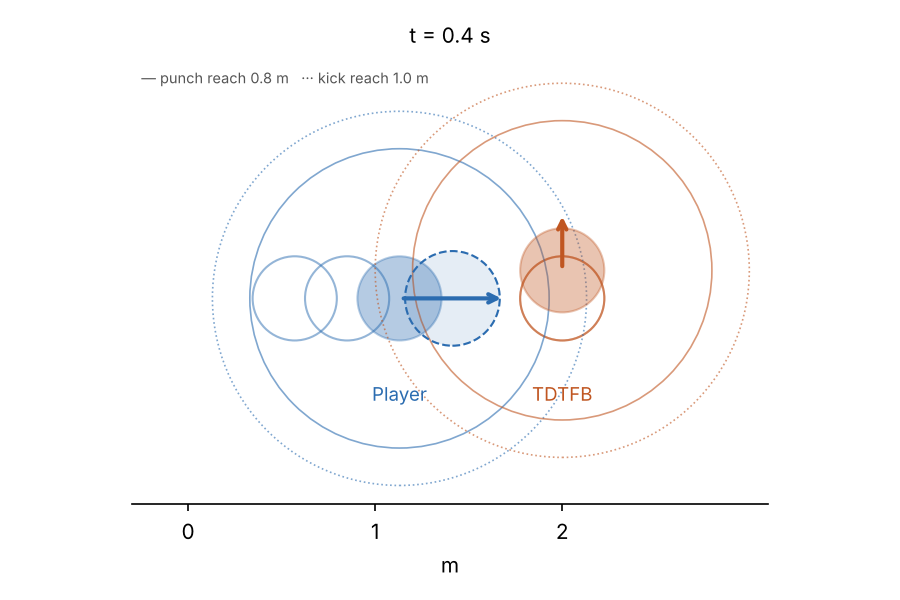
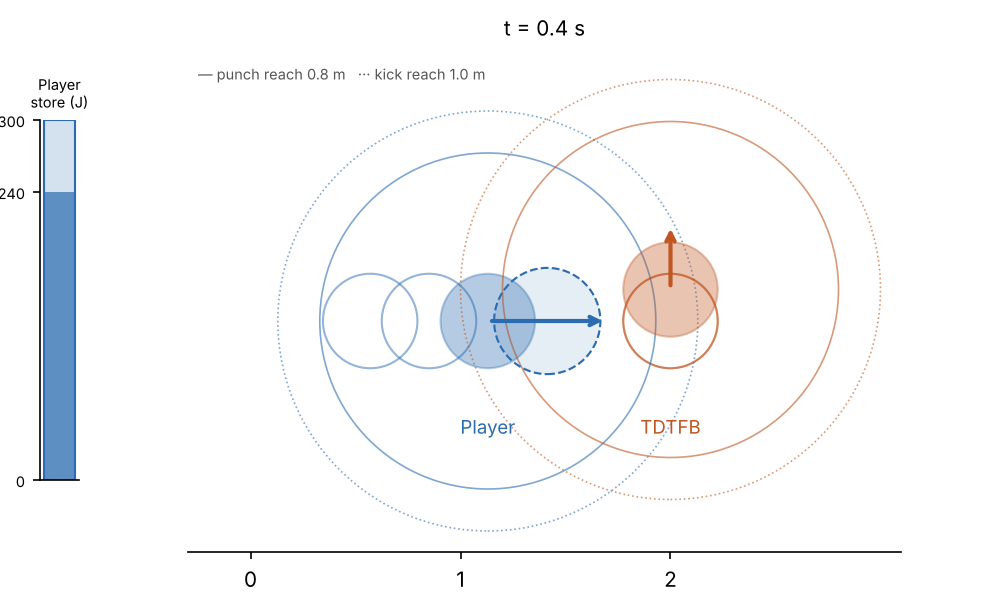
Combat frame: player energy-store bar
Claude-Session: https://claude.ai/code/session_01RGpbufgYSJT2n4v1xECmZw

diff --git a/docs/combat/frames/render_frame.py b/docs/combat/frames/render_frame.py
@@ -13,7 +13,19 @@ HISTORY = [  # (x, y, color) at earlier turns, drawn as empty circles
     (0.57, 0.00, "#2b6cb0"), (0.85, 0.00, "#2b6cb0"),  # player t=0.2, 0.3
     (2.00, 0.00, "#c05621"), (2.00, 0.00, "#c05621"),  # TDTFB t=0.2, 0.3
 ]
-fig, ax = plt.subplots(figsize=(6, 4), dpi=150)
+fig = plt.figure(figsize=(6.6, 4), dpi=150)
+bx = fig.add_axes([0.04, 0.2, 0.04, 0.6])   # player's energy store bar
+ax = fig.add_axes([0.12, 0.08, 0.86, 0.84])
+CAP, P_W, STEP = 300, 600, 0.1
+STORE_NOW = 240
+store_next = min(CAP, STORE_NOW + P_W * STEP)
+bx.bar(0, CAP, color="none", edgecolor="#2b6cb0", lw=1)
+bx.bar(0, store_next, color="#2b6cb0", alpha=.2)
+bx.bar(0, STORE_NOW, color="#2b6cb0", alpha=.7)
+bx.set_xlim(-.5, .5); bx.set_ylim(0, CAP); bx.set_xticks([])
+bx.set_yticks([0, STORE_NOW, CAP]); bx.tick_params(labelsize=7)
+bx.set_title("Player\nstore (J)", fontsize=7)
+for sp in ("top", "right"): bx.spines[sp].set_visible(False)
 for x, y, c in HISTORY:
     ax.add_patch(Circle((x, y), 0.225, fill=False, color=c, lw=1, alpha=.5))
 for name, x, y, vx, vy, c in STATE:
@@ -38,4 +50,4 @@ ax.add_patch(Circle((px + pvx * DT, py + pvy * DT), dv * DT,
 ax.add_patch(Circle((px + pvx * DT, py + pvy * DT), dv * DT,
                     fill=False, color="#2b6cb0", ls="--", lw=1))
 ax.text(-.25, 1.15, "— punch reach 0.8 m   ··· kick reach 1.0 m", fontsize=7, color="#555")
-fig.tight_layout(); fig.savefig(sys.argv[1] if len(sys.argv) > 1 else f"docs/combat/frames/t{t}.png")
+fig.savefig(sys.argv[1] if len(sys.argv) > 1 else f"docs/combat/frames/t{t}.png")
